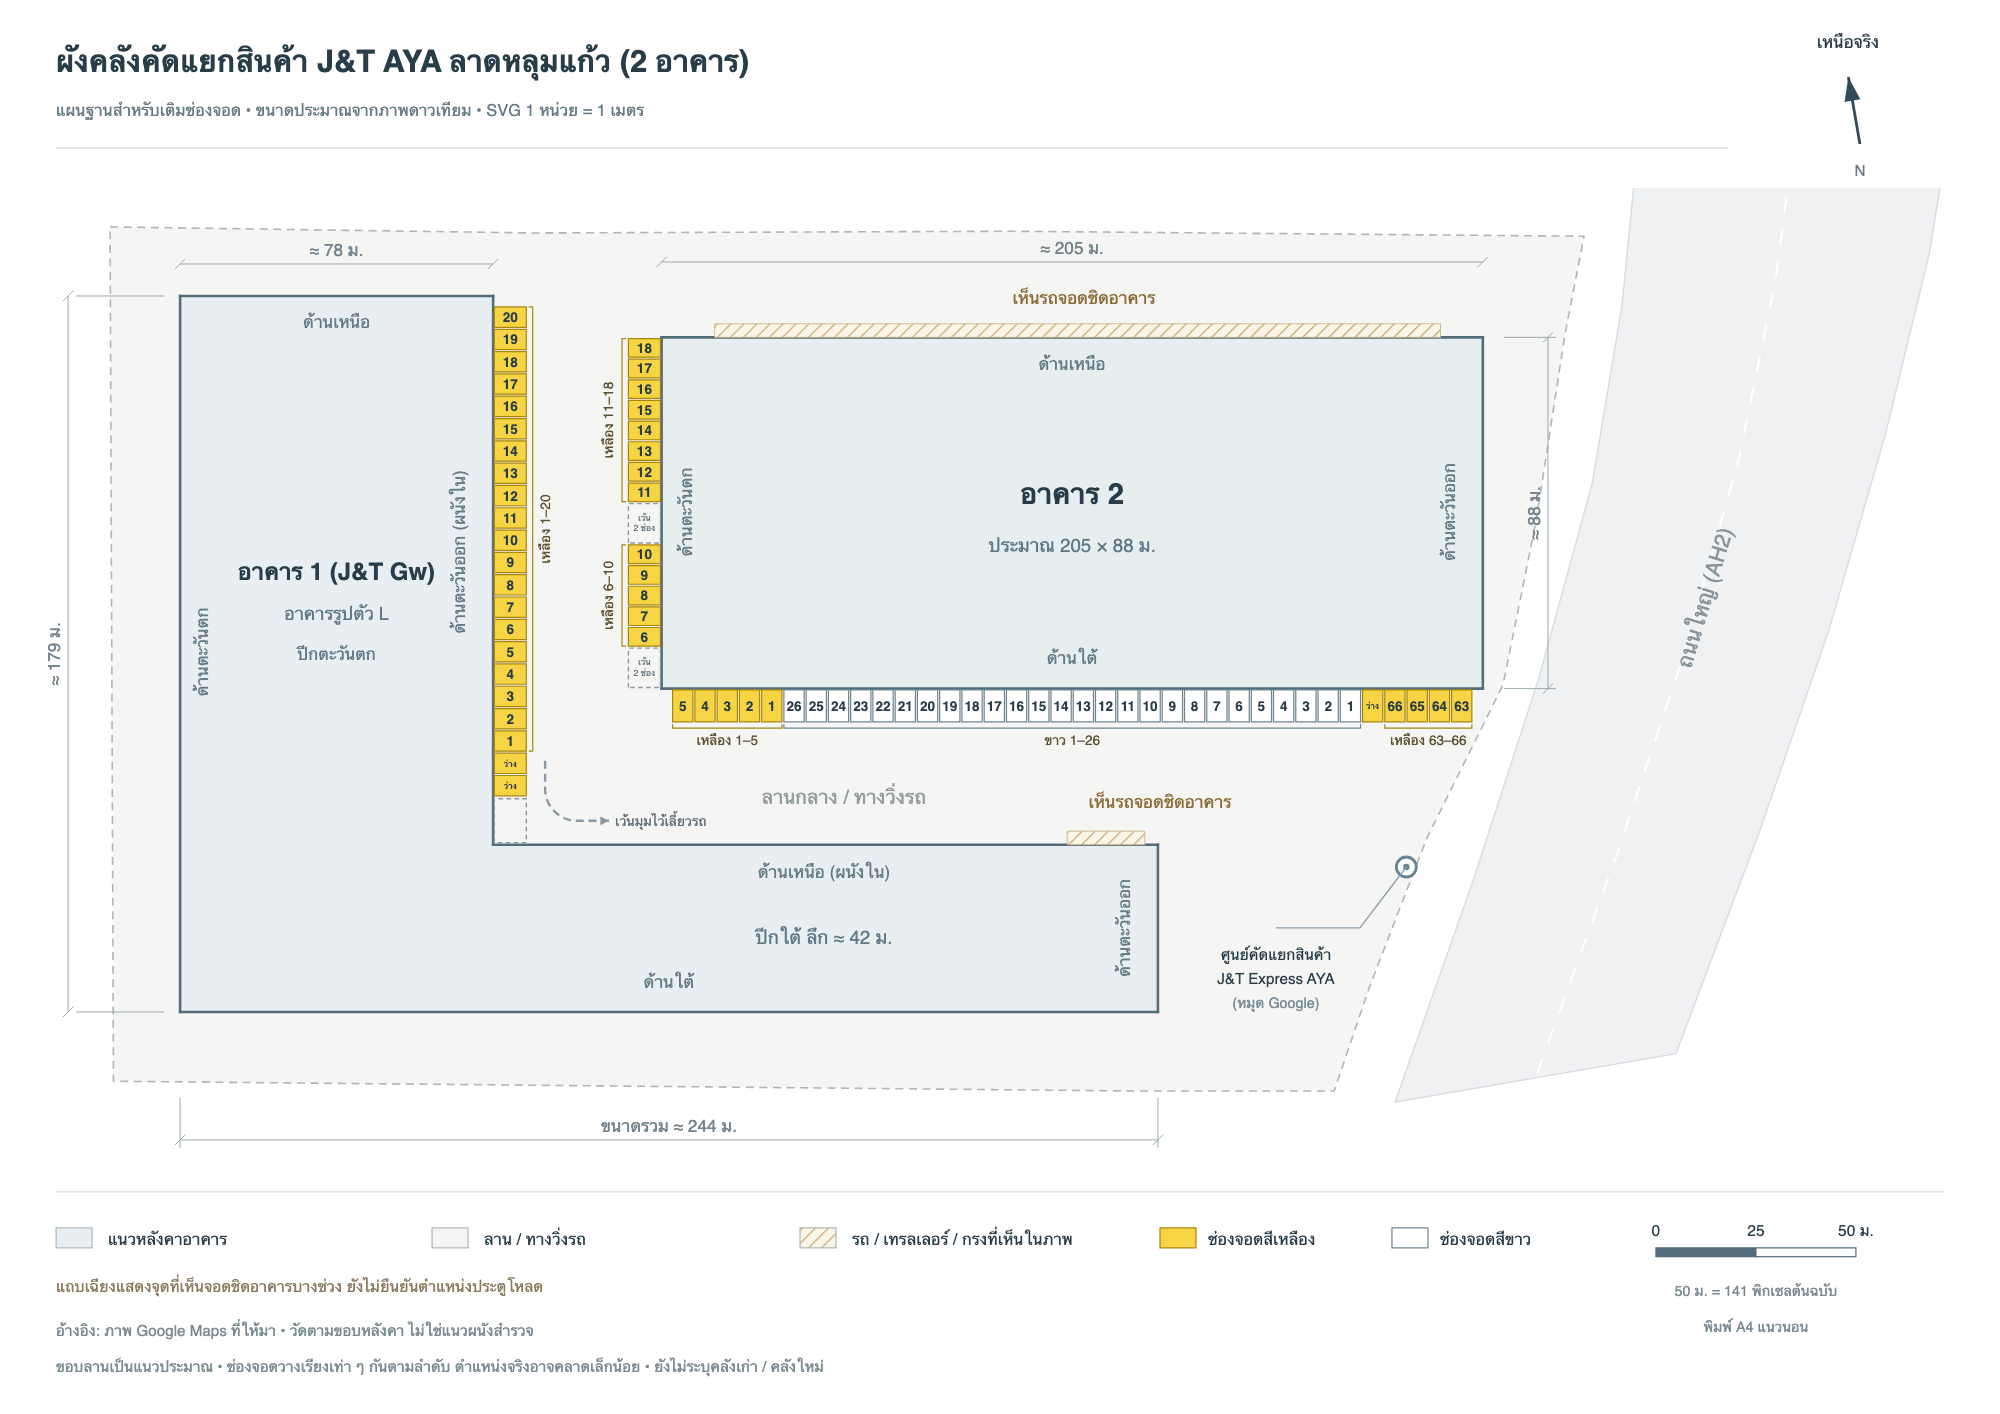
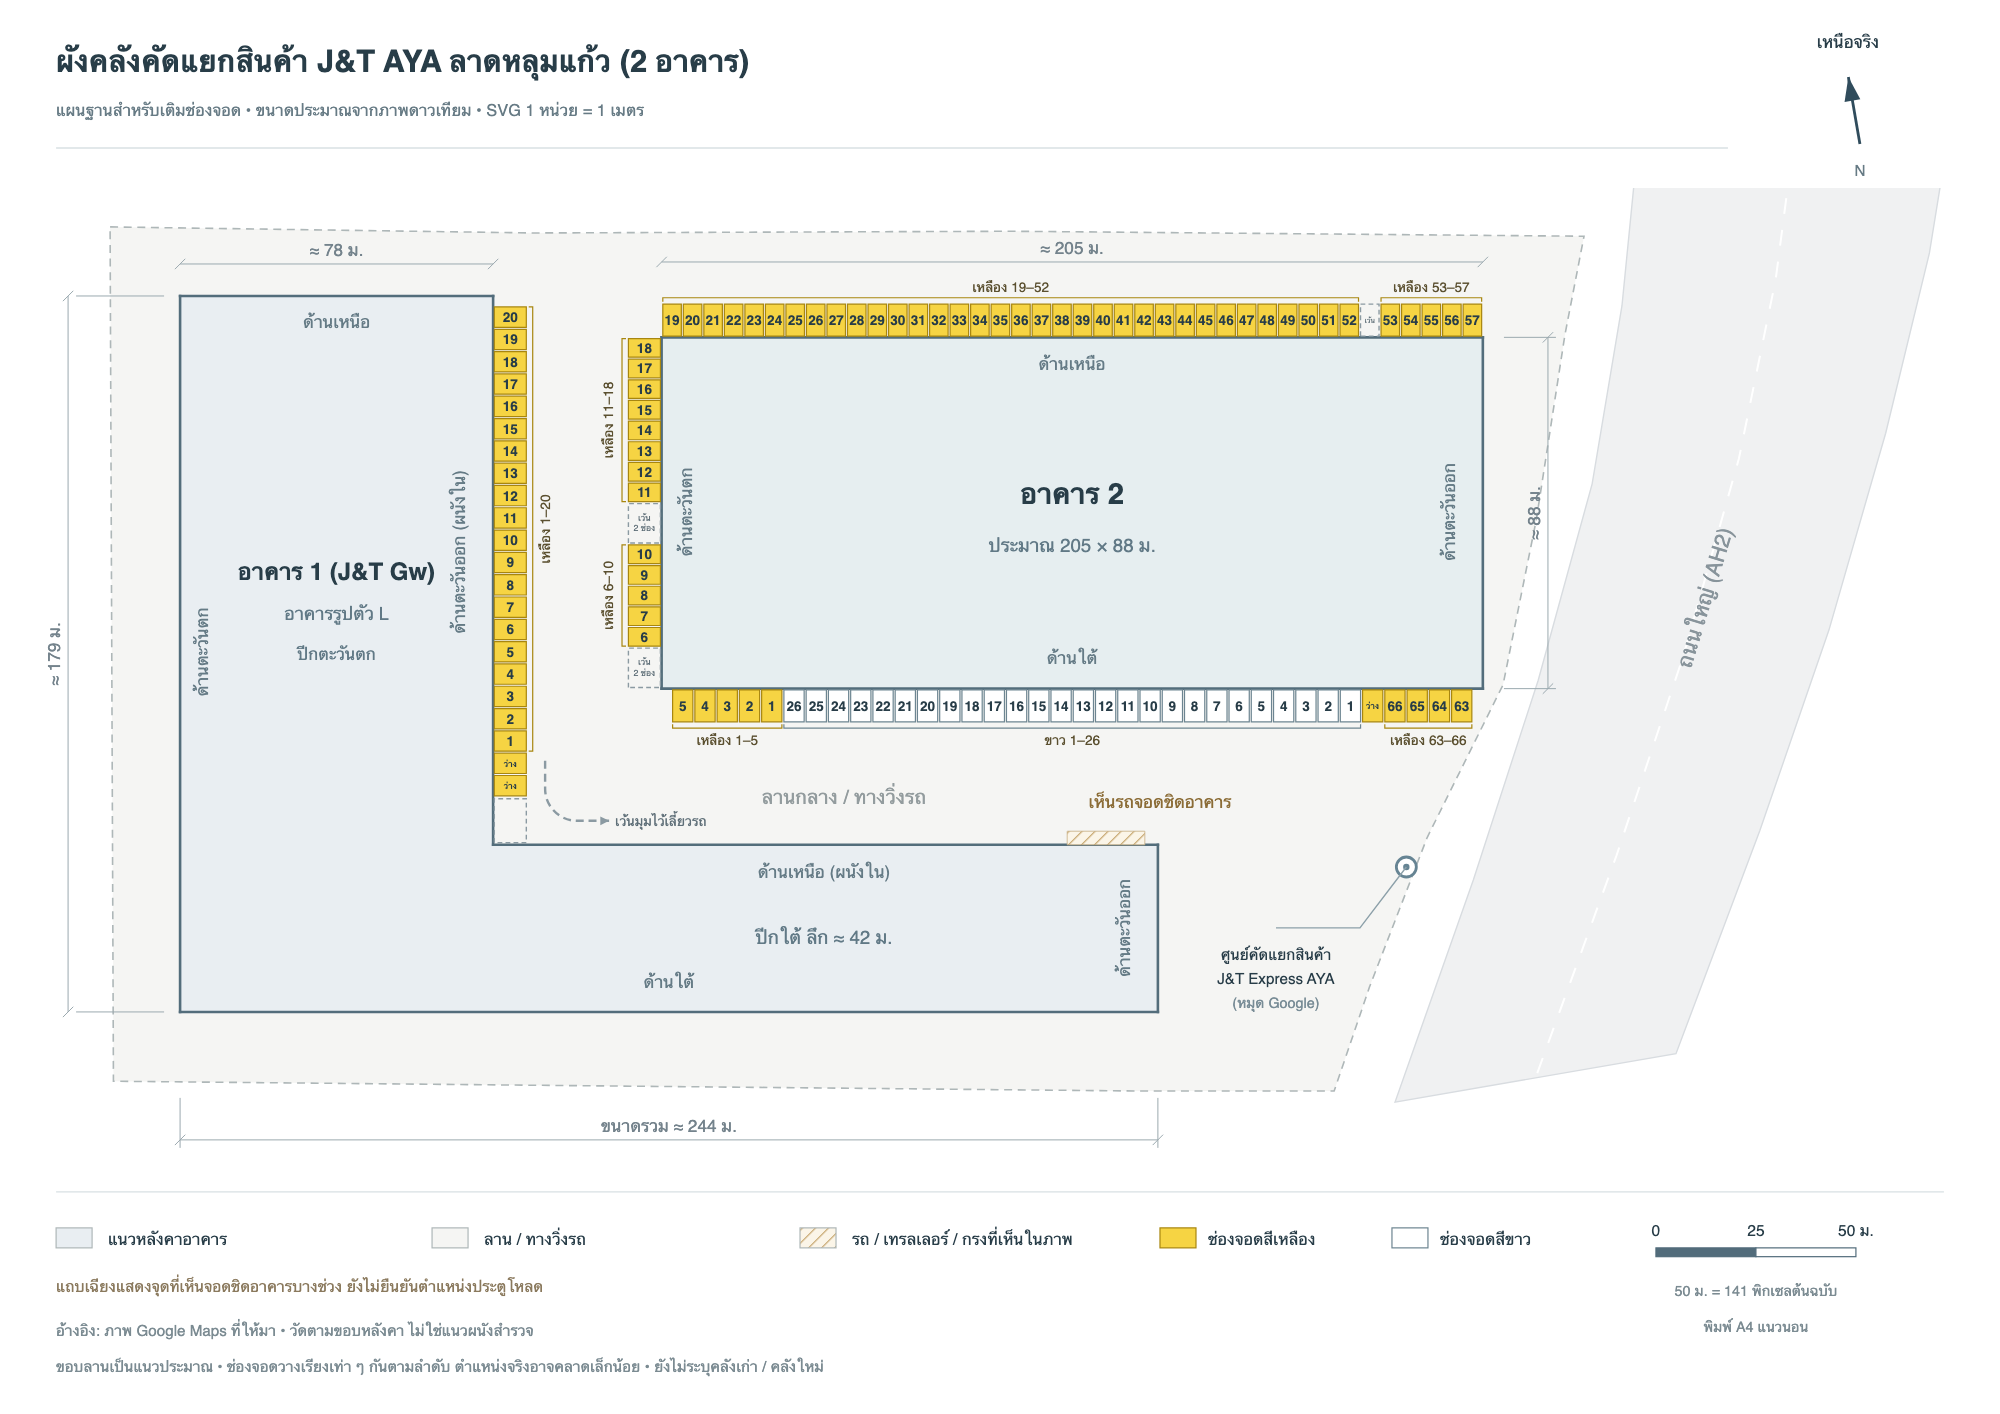
เพิ่มช่องจอดอาคาร 2 ด้านเหนือ (จากซ้าย เหลือง 19–52, เว้น 1 ช่อง, 53–57) + ปุ่มขยาย

Changed region(s): [[0.31, 0.1867, 0.744, 0.2489]]

diff --git a/map.html b/map.html
@@ -38,13 +38,14 @@ h1{margin:4px 0 2px;font-size:24px;line-height:1.3}
     <!-- data-x/y = ตำแหน่งแถวช่องจอดบนผัง (สัดส่วนของความกว้าง/สูงภาพ) -->
     <button type="button" class="btn primary zoomTo" data-x="0.66" data-y="0.50">ขยาย: อาคาร 2 ด้านใต้</button>
     <button type="button" class="btn primary zoomTo" data-x="0.32" data-y="0.37">ขยาย: อาคาร 2 ด้านตะวันตก</button>
+    <button type="button" class="btn primary zoomTo" data-x="0.54" data-y="0.22">ขยาย: อาคาร 2 ด้านเหนือ</button>
     <button type="button" class="btn primary zoomTo" data-x="0.27" data-y="0.40">ขยาย: อาคาร 1 ด้านตะวันออก</button>
     <button type="button" class="btn" id="fitBtn" hidden>ย่อ</button>
     <a class="btn" href="plan.svg">เปิดภาพเต็ม</a>
     <a class="btn" href="report.html">รายงานรถทอย</a>
   </div>
 </div>
-<div class="viewer" id="viewer"><img src="plan.svg" alt="ผังอาคาร 1 และอาคาร 2 พร้อมช่องจอดด้านใต้และด้านตะวันตกอาคาร 2 และด้านตะวันออกอาคาร 1"></div>
+<div class="viewer" id="viewer"><img src="plan.svg" alt="ผังอาคาร 1 และอาคาร 2 พร้อมช่องจอดด้านใต้ ด้านตะวันตก และด้านเหนืออาคาร 2 และด้านตะวันออกอาคาร 1"></div>
 <div class="wrap"><p class="note">เลขช่องซ้ำได้ แยกด้วยสีพื้น (เหลือง / ขาว) · ช่องวางเรียงเท่า ๆ กัน ตำแหน่งจริงอาจคลาดเล็กน้อย</p></div>
 <script>
 const v = document.getElementById("viewer"), fit = document.getElementById("fitBtn");

diff --git a/slots.js b/slots.js
@@ -5,7 +5,7 @@
   const API = "https://urbvwplaoznyhvcsvore.supabase.co/rest/v1";
   const KEY = "sb_publishable_Vudb-REBewSsT9BWbTf1zA_8pLvwgqQ"; // คีย์สาธารณะ อ่านได้ทุกคน เขียนได้แค่ผ่านฟังก์ชัน jt_set_parking_slot
   const POLL_MS = 10000;
-  const BUILDINGS = {"b2-south": "อาคาร 2 ด้านใต้", "b2-west": "อาคาร 2 ด้านตะวันตก", "b1-inner-east": "อาคาร 1 ด้านตะวันออก"};
+  const BUILDINGS = {"b2-south": "อาคาร 2 ด้านใต้", "b2-west": "อาคาร 2 ด้านตะวันตก", "b2-north": "อาคาร 2 ด้านเหนือ", "b1-inner-east": "อาคาร 1 ด้านตะวันออก"};
   const COLORS = {yellow: "เหลือง", white: "ขาว"};
 
   const viewer = document.getElementById("viewer");
